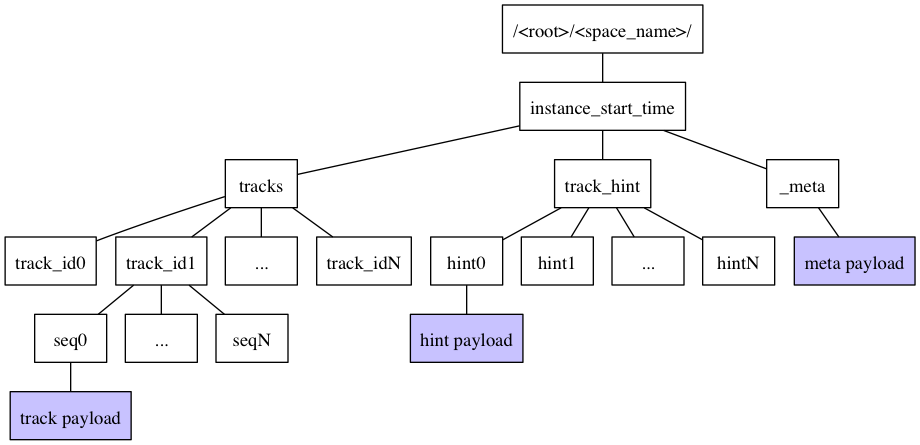
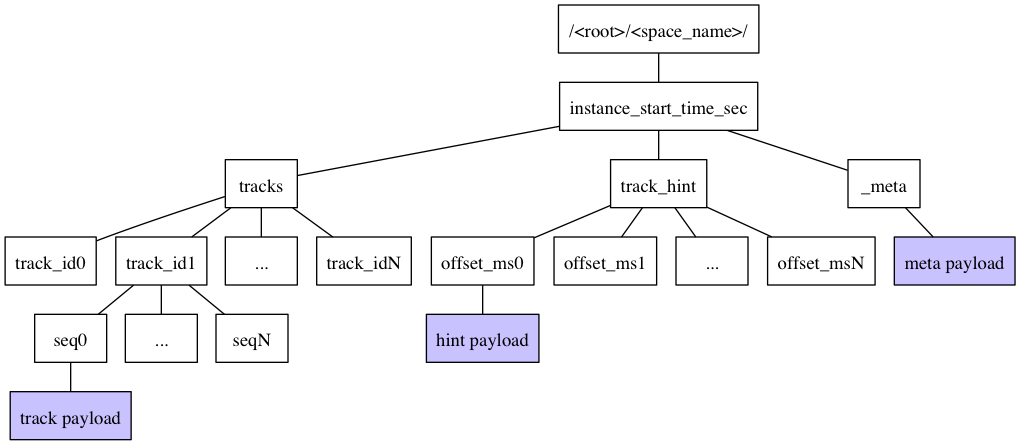
introduced namespace design V2, updated README.md

diff --git a/publisher/README.md b/publisher/README.md
@@ -36,7 +36,14 @@ $ roslaunch ndn_utils ros2ndn_converter.launch
 ### NDN Namespace
 Sample track data received from OpenPTrack:
 <pre>
-{"header":{"seq":2614,"stamp":{"sec":1417543531,"nsec":207120105},"frame_id":"world"},"tracks":[{"id":4,"x":3.79707,"y":2.75168,"height":1.43847}]}
+{
+    "header":{
+        "seq":2614,
+        "stamp": {"sec":1417543531,"nsec":207120105},
+        "frame_id":"world"
+    },
+    "tracks":[{"id":4,"x":3.79707,"y":2.75168,"height":1.43847}]
+}
 </pre>
 
 The following assumptions were taken before designing a namespace:
@@ -44,9 +51,11 @@ The following assumptions were taken before designing a namespace:
 2. Track data arrives at non-constant rate
 3. Track data is very lightweight (around 80-100 bytes)
 
-Given that and the fact that NDN overhead may be about the size of the payload or even bigger, publishing individual tracks under separate names would be inefficient. Good solution for that would be the bundling of tracks.
+Given that and the fact that NDN overhead may be about the size of the payload or even bigger, publishing individual tracks under separate names would be inefficient. A solution for that would be the bundling of tracks. However, in this way, consumer has to provide complex algorithms for re-bundling samples, buffer and sort them and retrieve the latest. Therefore, we'd stick with non-bundling approach, chosing simpler and faster implementation rather then optimized data transfering.
 
 Another design decision was made in favor of using sequential numbering rather than timestamps. Tracking data is timestamped using nanosecond precision which can not easily mapped into NDN namespace. One should either concatenate "seconds" timestamp with "nanoseconds" timestamp, thus obtaining unique name component (which may take up to 20 symbols) or nest nanoseconds under seconds timestamps in the namespace and make consumer's fetching algorithms more complicated. Another motive of using sequential numbering is that it allows consumers to keep control over the number of outstanding interests (as they know that numbers are incremented sequentially unlike timestamps).
+
+Sequential numbering is preferrable for real-time consumers. However, there is another class of historical consumers, which operate using timestamps and perform history seeking. In order to support this, timestamps as name components were chosen for track hints. **offset_msN** represents a milliseconds-precision offset from the **instance_start_time_sec**. In this way, historical consumers can easily perform seeking and retrieving tracking samples using IDs stored in hint's payloads.
 
 Proposed namespace:
 ![OpenPTrack data NDN publisher namespace](https://raw.githubusercontent.com/named-data/ndn-opt/master/publisher/res/namespace.png)
@@ -54,33 +63,41 @@ Proposed namespace:
 ### Payloads
 There are three types of payloads:
 - Track payload
-    - Contains tracking data bundle which is represented as Json array. Each array element contains timestamps for the given data and coordinates. Published at 30-60Hz rate.
+    - Contains tracking data which is represented as Json object. Object contains timestamps for the given data and coordinates. Published at the incoming rate of the tracking data. 
         <pre>
 {
-"tracks": [{
-	        "sec":1417543531,
-	        "nsec":40461546,
-	        "x":3.33293,
-	        "y":2.67657,
-	        "z":1.3314
-            },
-            ...]
+    "sec":1417543531,
+    "nsec":40461546,
+    "x":3.33293,
+    "y":2.67657,
+    "z":1.3314
 }
         </pre>
+        - **sec** - seconds-precision timestamp
+        - **nsec** - nanoseconds-precision timestamp
+        - **x, y, z** - tracking sample coordinates
 - Hint payload
-    - Used for efficient bootstrapping. This data is published with 1-5Hz rate. Active tracks array contains only those tracks for which new data was received during the last refreshing period.
-        <pre>
-        {
-            "active tracks": [1,2,3,5,8]
-        }
-        </pre>
+    - Used for efficient bootstrapping. This data is published with 1-5Hz rate. Tracks array contains only those tracks for which new data was received during the last refreshing period.
+<pre>
+{ 
+        "sec":1417543531, 
+        "nsec":40461546, 
+        "tracks": [ {"id":1, "seq":42}, {"id":2, "seq":12}, ...]
+}
+</pre>
+        - **sec, nsec** - seconds- and nanoseconds-precision timestamp 
+        - **tracks** - array of active tracks; each element contains:
+            - **id** - track id which can be used for querying track payload
+            - **seq** - latest track's sample sequence number which can be used for querying track payload
 - Meta payload
     - Contains any meta information about current node (calibration info, etc.)
+<pre>
+Meta payload TBD
+</pre>
 
 ### Publisher
-Here is the preliminary app design which realizes publishing in the aforementioned namespace:
-![OpenPTrack data NDN publisher design](https://raw.githubusercontent.com/named-data/ndn-opt/master/publisher/res/ndn-opt-publisher.png)
+Here is the preliminary app design (Version 2, you may also check [Version 1 design](https://raw.githubusercontent.com/named-data/ndn-opt/master/publisher/res/ndn-opt-publisher.png)) which realizes publishing in the aforementioned namespace:
+![OpenPTrack data NDN publisher design](https://raw.githubusercontent.com/named-data/ndn-opt/master/publisher/res/ndn-opt-publisher_v2.png)
 
-Each track received from OpenPTrack is analyzed for the track id and tracking info (timestamps and coordinates). This tracking info is extracted, packed into "ready-to-be-published" Json object and placed in the **track bucket**. Track buckets are synchronization objects (protected with mutexes) which allow ony one thread at a time to modify them. There is a separate bucket for each track id. Track bucket get filled by a process which receives ROS callbacks. Simultaneously, bucket is emptied every time when **track publisher** get access to the bucket. At this moment, track publisher packs all tracks from the bucket into a Json object, publishes this object to NDN and empties the bucket. Track publisher operates on the constant rate (configurable).
-The other instance which gets access (read-only) to the buckets array is the **track hint publisher** which also operates on the constant rate and publishes track hints to NDN. Track hint publisher may also delete empty buckets.
+Each track received from OpenPTrack is analyzed for the track id and tracking info (timestamps and coordinates). This tracking info is extracted, packed into "ready-to-be-published" Json object and published by **Track publisher**. Besides publishing, track publisher updates **Active Tracks** structure with the most recent data - recently received track id, sequence number name component and timestamps (seconds and nanoseconds). Active Tracks structure is a synchronization object - access to it is mutually exclusive for all threads. Active Tracks structure is invalidated every time when **Track hint publisher** gets access to it. Track hint publisher operates at the constant rate and publishes track hints to NDN. Track hint publisher does not publish any data if Active Tracks has no new data to publish.
 
